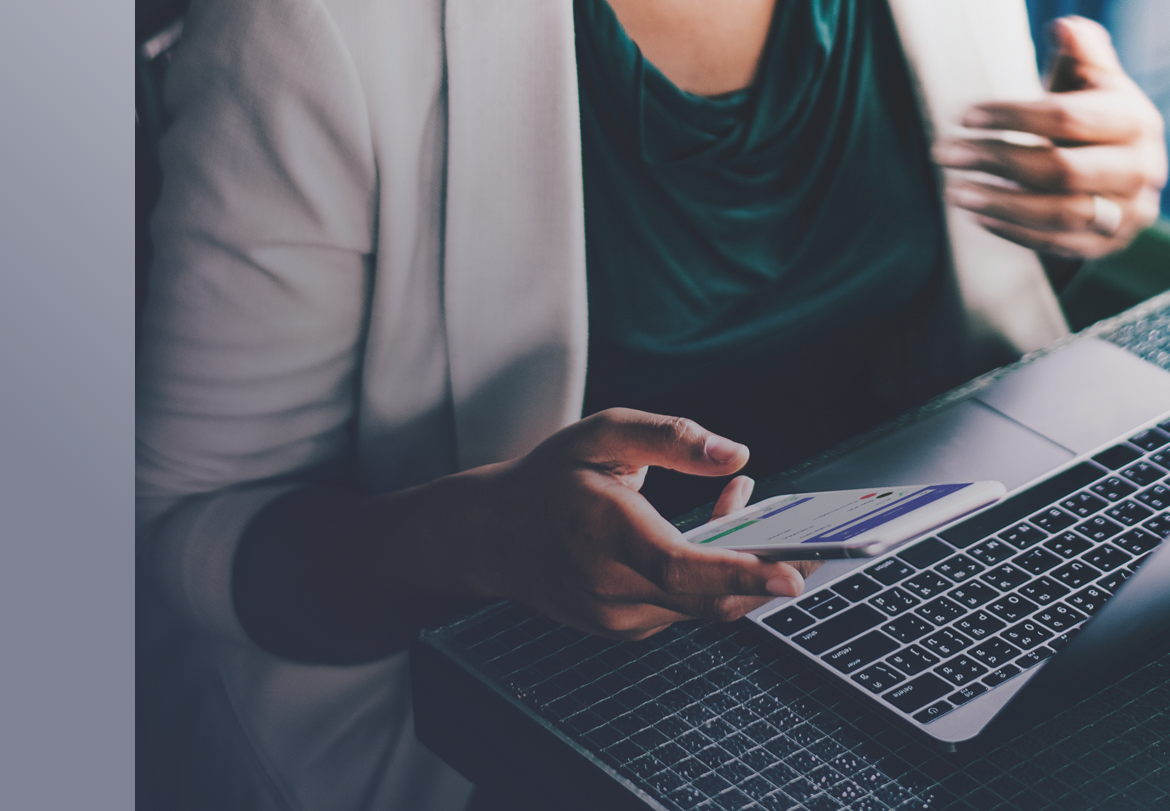
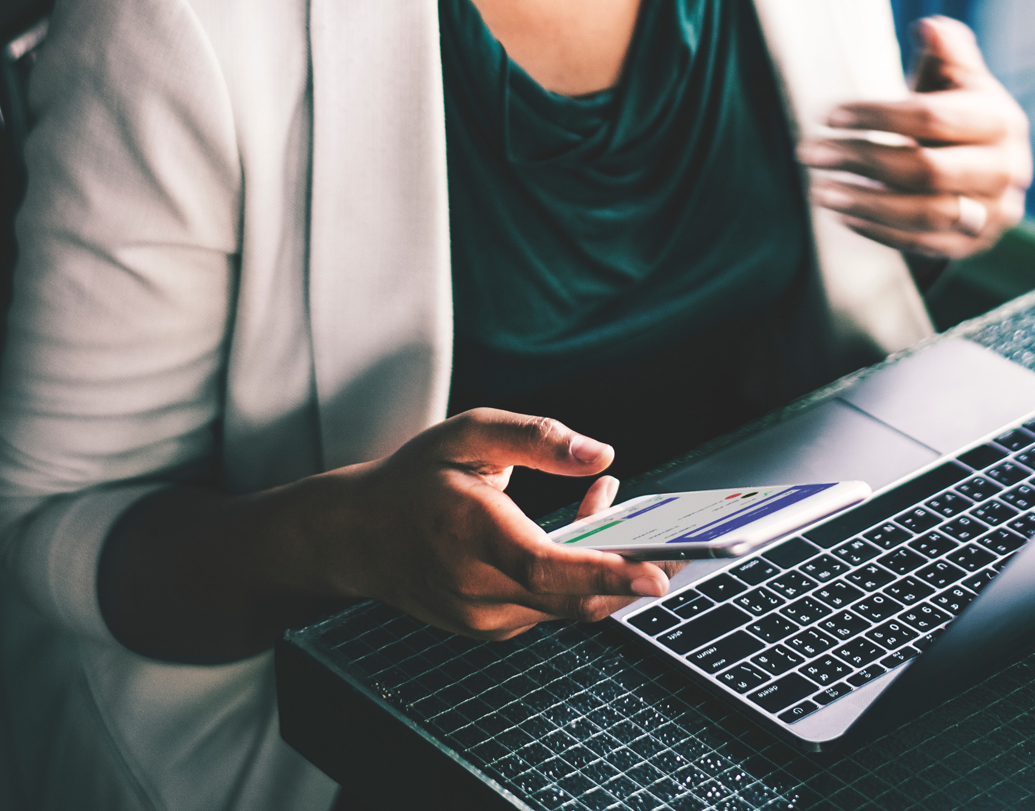
Fix image sizing

diff --git a/src/app/components-new/Authentication.vue b/src/app/components-new/Authentication.vue
@@ -71,9 +71,9 @@ div
         .visual {
             grid-column: 2;
             background-image: url("../assets/png/auth-main.png");
-            background-position: top right;
+            background-position: right;
             background-repeat: no-repeat;
-            background-size: auto 100%;
+            background-size: cover;
 
             .send-money-tokens {
                 position: absolute;

diff --git a/src/app/NewApp.vue b/src/app/NewApp.vue
@@ -245,6 +245,7 @@
 
     .wrapper {
         height: 100vh;
+        min-height: 500px;
         width: 100vw;
 
         display: grid;
